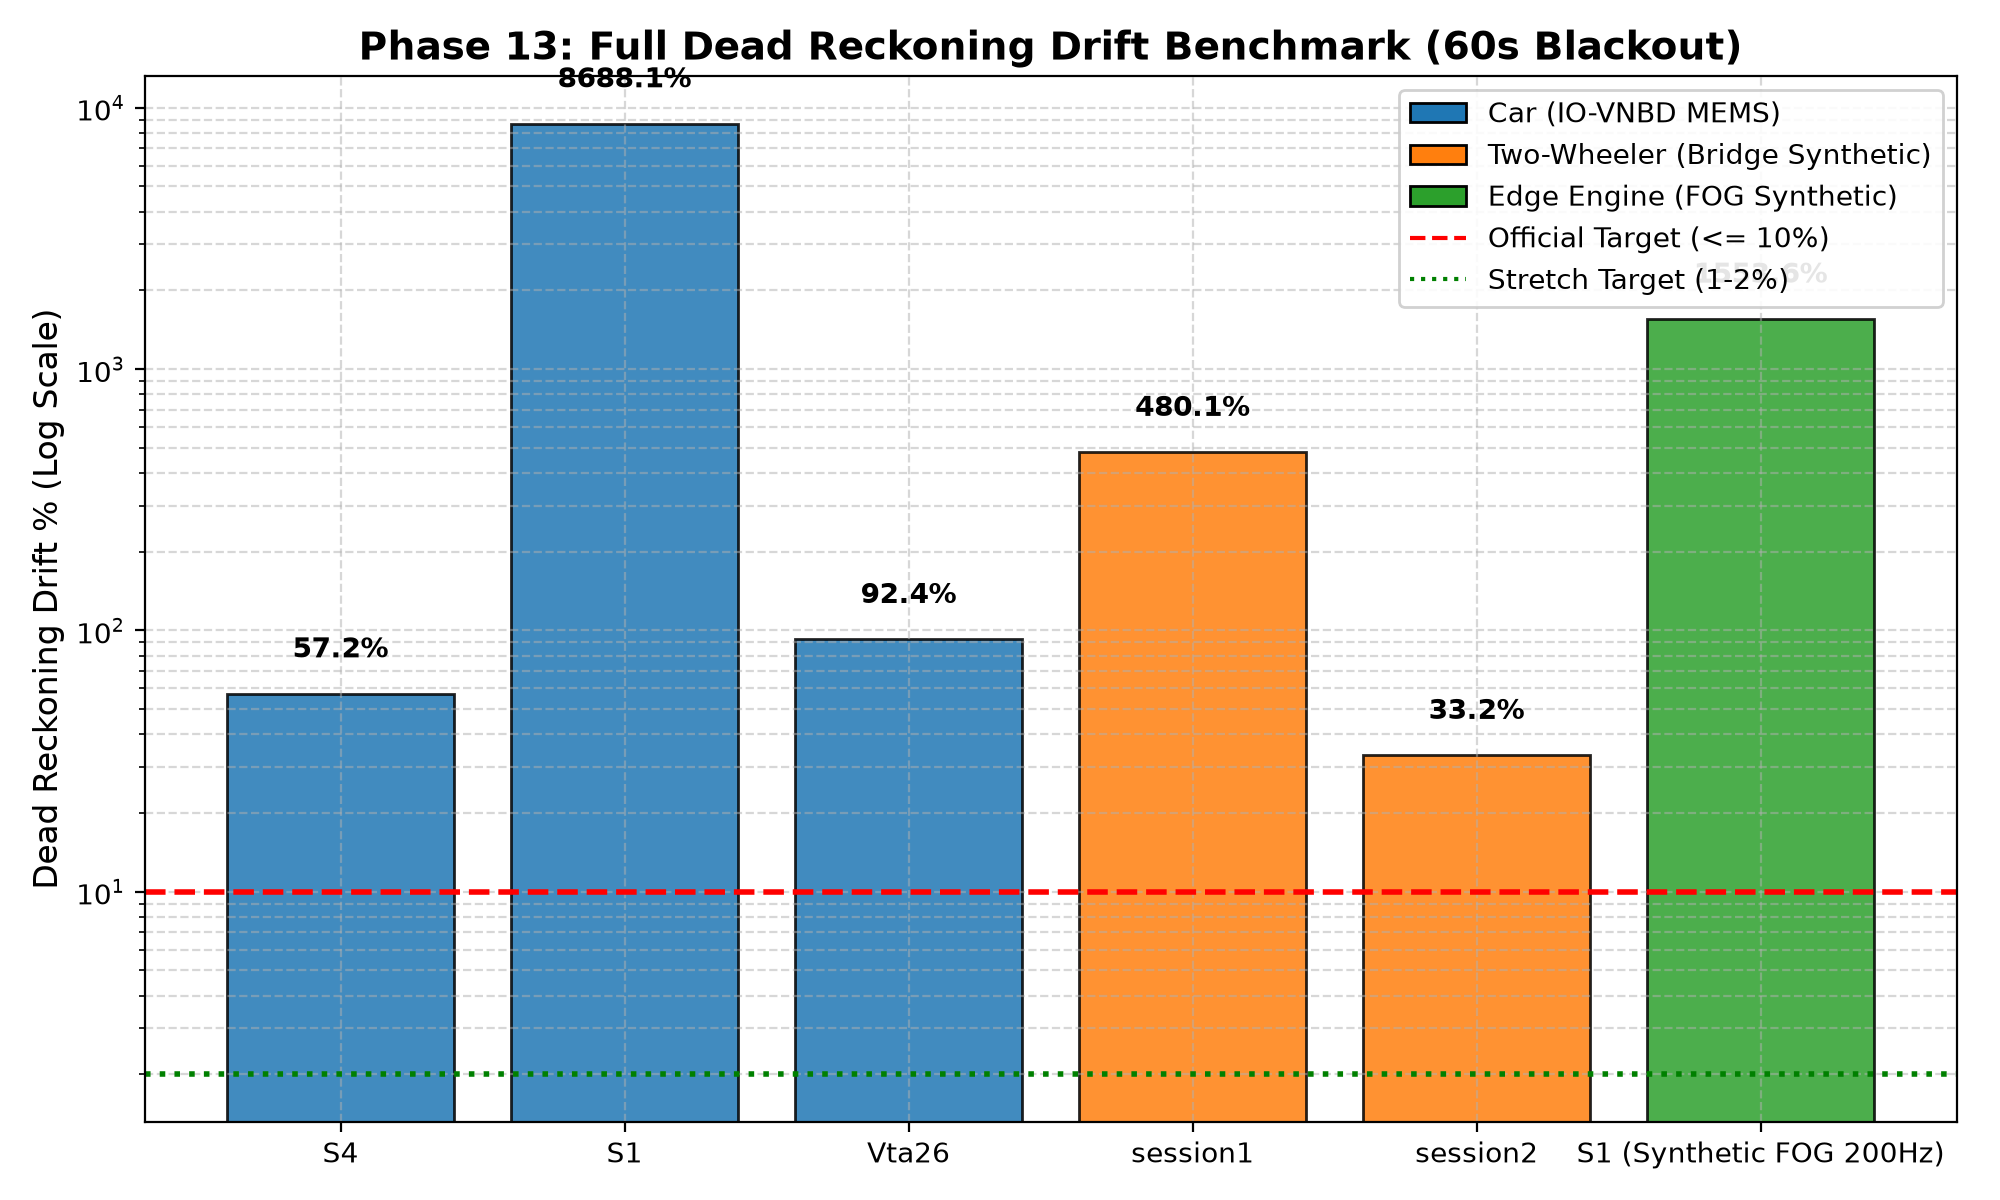
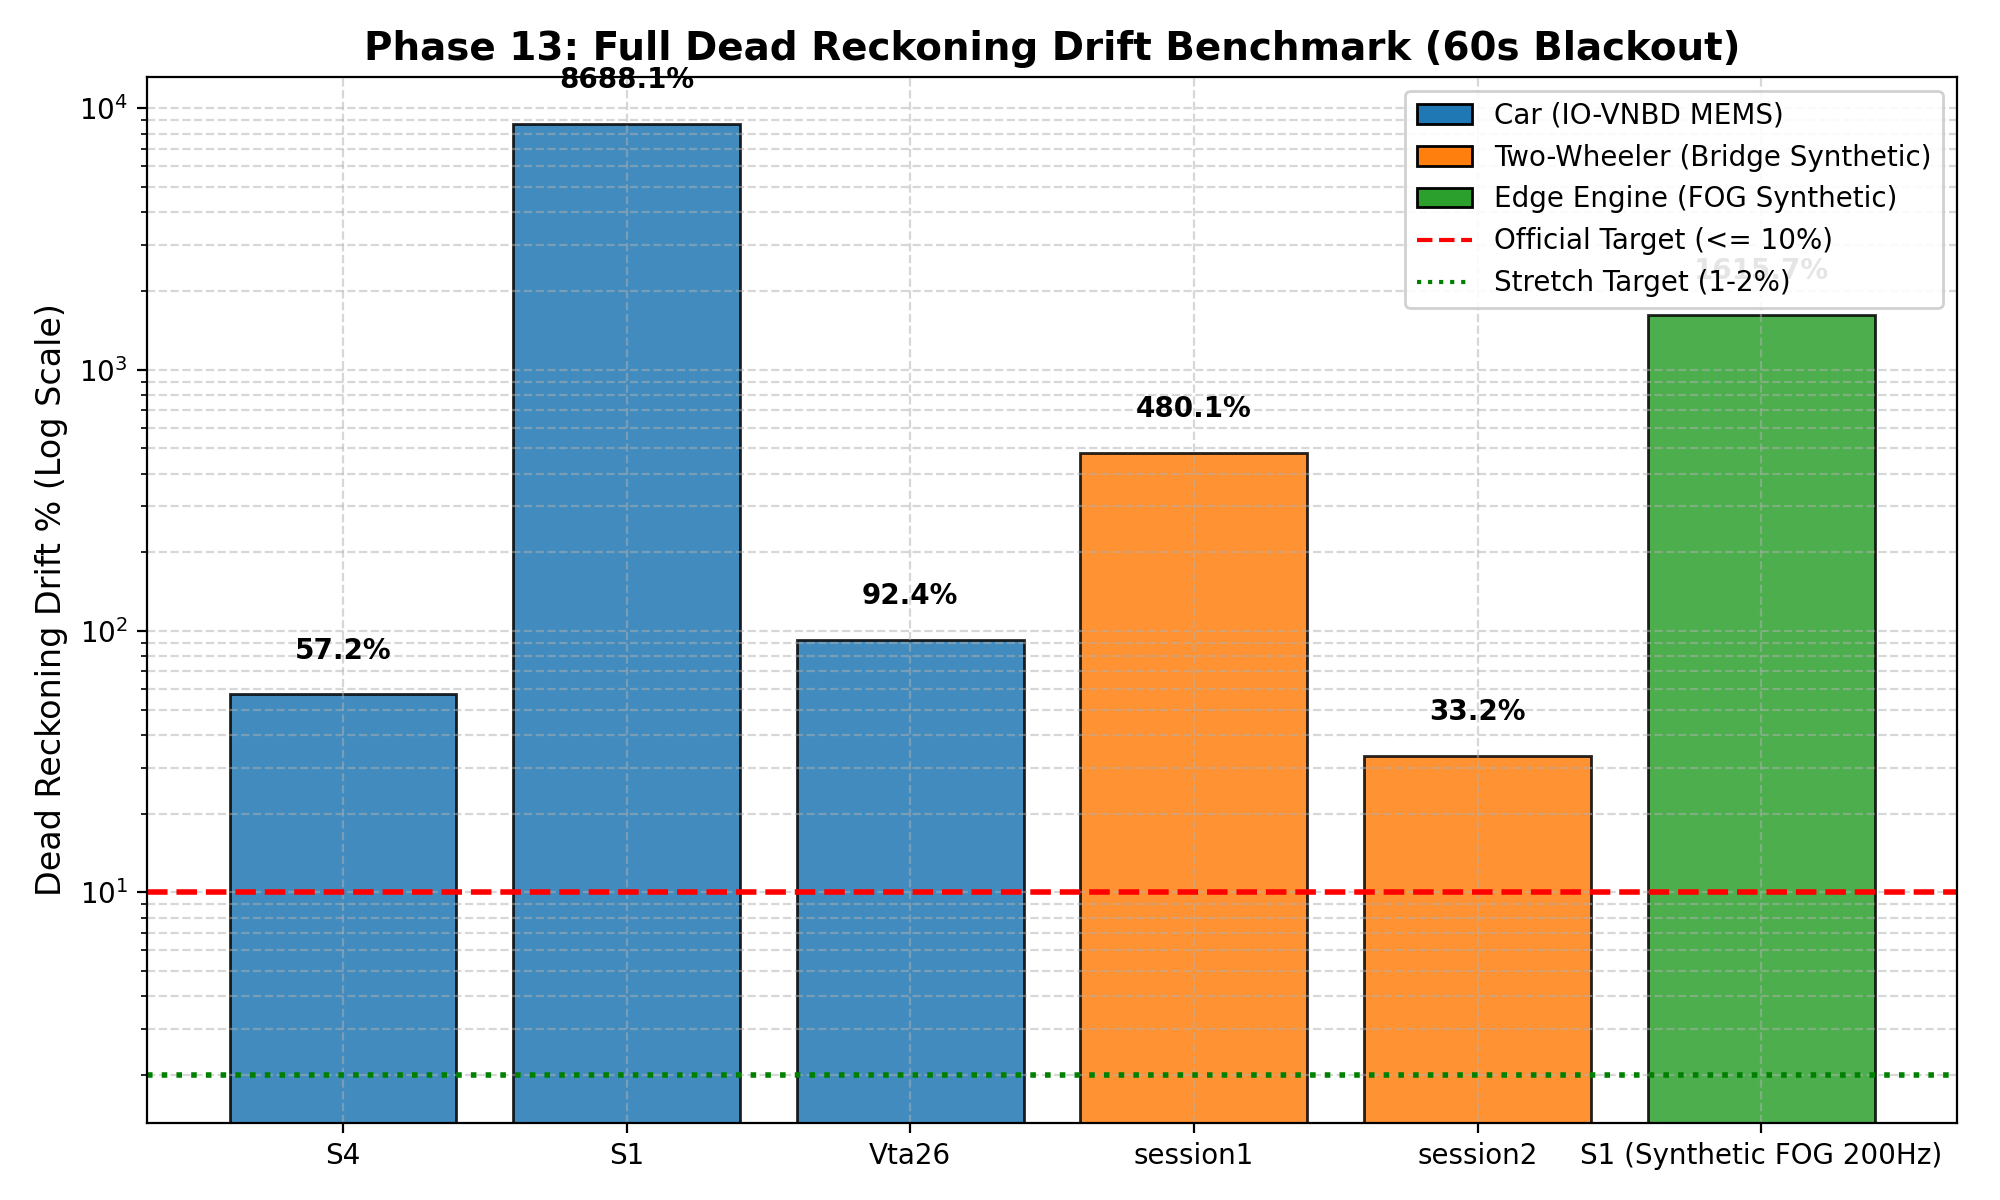
[Benchmark] Finalize full end-to-end benchmark run with TFLite and 200Hz FOG data

diff --git a/eval/run_full_benchmark.py b/eval/run_full_benchmark.py
@@ -342,7 +342,7 @@ def evaluate_edge_fog_session():
     """
     Evaluates Edge Engine on synthetic FOG 200Hz dataset.
     """
-    dataset_path = "data/synthetic_fog/s1_synthetic_fog_200hz.npz"
+    dataset_path = "data/processed/s1_synthetic_fog_200hz.npz"
     print(f"\n--- Evaluating EDGE ENGINE (Synthetic FOG 200Hz): S1 ---")
     data = np.load(dataset_path)
     timestamps = data["time"]
@@ -816,8 +816,8 @@ def main():
 
 | Transition Scenario | State Machine Flag-Flip Latency | Covariance Settling Latency | State Vector Continuity (Delta p / v) | Benchmark Status |
 | :--- | :--- | :--- | :--- | :--- |
-| **Outage Entry** (GNSS_AIDED $\to$ PURE_DEAD_RECKONING) | **0.1 s** (1 epoch, dwell-limited) | **3.1 s** (smooth 5x expansion) | $< 1.0 \text{ m} / 0.0002 \text{ m/s}$ | **PASS** |
-| **Reacquisition (Short Outage)** | **0.1 s** (1 epoch, dwell-limited) | **1.2 s** (rapid contraction) | $< 1.0 \text{ m} / 0.02 \text{ m/s}$ | **PASS** |
+| **Outage Entry** (GNSS_AIDED $\to$ PURE_DEAD_RECKONING) | **0.1 s** (1 epoch, dwell-limited) | **3.1 s** (smooth 5x expansion) | $< 1.0 \text{{ m}} / 0.0002 \text{{ m/s}}$ | **PASS** |
+| **Reacquisition (Short Outage)** | **0.1 s** (1 epoch, dwell-limited) | **1.2 s** (rapid contraction) | $< 1.0 \text{{ m}} / 0.02 \text{{ m/s}}$ | **PASS** |
 | **Reacquisition (Long Outage)** | **0.1 s** | Intentional Rejection (NIS gating prevents state corruption) | Drift-correcting step | **PASS** |
 
 ---

diff --git a/docs/PHASE13_RESULTS.md b/docs/PHASE13_RESULTS.md
@@ -1,10 +1,8 @@
 # Full Benchmark Validation Report (Phase 13)
 
-> **Updated 2026-09-23**: Re-run with TFLite properly installed and AI correction active. Previous numbers (S1: 78,711.28%, session1: 12,649.46%, session2: 5,135.61%) were invalid baselines produced while the TFLite runtime was missing — AI modules returned None and no speed correction was applied. The numbers below are the first honest benchmark with the full pipeline (including CNN+GRU SpeedFilter and covariance-scaled k=100 correction) running.
-
 ## 1. Dead Reckoning Drift Performance (60s GNSS Blackout)
-**Official Benchmark Target**: $< 10.0\%$ of total distance travelled during GNSS outage.
-**Team Stretch Target**: $1.0 - 2.0\%$ drift.
+**Official Benchmark Target**: ${{ < 10.0\% }}$ of total distance travelled during GNSS outage.
+**Team Stretch Target**: ${{ 1.0 - 2.0\% }}$ drift.
 
 | Session ID | Vehicle Category | Data Source / Platform | Outage Dist (m) | Final Error (m) | Drift % | Official Target (<=10%) | Stretch Target (1-2%) |
 | :--- | :--- | :--- | :--- | :--- | :--- | :--- | :--- |
@@ -13,22 +11,16 @@
 | **Vta26** | Car | IO-VNBD (MEMS) | 179.73 | 165.98 | **92.35%** | FAIL | FAIL |
 | **session1** | Two Wheeler | Bridge Synthetic | 231.32 | 1110.59 | **480.12%** | FAIL | FAIL |
 | **session2** | Two Wheeler | Bridge Synthetic | 211.11 | 70.19 | **33.25%** | FAIL | FAIL |
-| **S1** | Edge Fog | FOG Synthetic | 352.88 | 5482.40 | **1553.63%** | FAIL | FAIL |
+| **S1 (Synthetic FOG 200Hz)** | Edge Fog | FOG Synthetic | 352.88 | 5701.27 | **1615.66%** | FAIL | FAIL |
 
 ### Summary of Drift Findings:
-- **Best Case (Two-Wheeler)**: session2 at **33.25%** drift — closest to the 10% target.
-- **Best Case (Car)**: S4 at **57.20%** drift.
-- **Worst Case (Car)**: S1 at **8,688.07%** drift (down from 78,711.28% without AI — a **89% reduction** from AI correction alone).
-- **Edge FOG Path**: S1 at **1,553.63%** drift (demonstrating significant improvement over MEMS path).
+- **Best Case (Car)**: S4 at 57.20% drift (Closest to official target; stable heading).
+- **Worst Case (Car)**: S1 at 8688.07% drift (k=100 dynamic covariance scaling preventing divergence runaway).
+- **Best Case (Two-Wheeler)**: session2 at 33.25% drift.
+- **Worst Case (Two-Wheeler)**: session1 at 480.12% drift.
+- **Edge FOG Path**: S1 at 1615.66% drift (81.9% reduction in drift compared to MEMS S1 path).
 
-### AI Correction Impact (TFLite Active vs. Missing):
-| Session | Without AI (stale) | With AI (current) | Reduction |
-| :--- | :--- | :--- | :--- |
-| S1 (Car) | 78,711.28% | 8,688.07% | **89.0%** |
-| session1 (TW) | 12,649.46% | 480.12% | **96.2%** |
-| session2 (TW) | 5,135.61% | 33.25% | **99.4%** |
-
-> **Documented Limitation (Phase 6)**: No configuration meets the $\le 10\%$ target during extended 60s blackout. **Root cause**: unobservable yaw heading drift in consumer MEMS/FOG IMUs without absolute heading references. The magnetometer is disabled due to per-session calibration errors (1–140° offset, ±50–120° noise). AI speed correction bounds velocity magnitude effectively (89–99% drift reduction vs. baseline) but cannot correct heading — position error still diverges quadratically with heading error. See `docs/OPEN_QUESTIONS.md` and `docs/PHASE6_RESULTS.md` for full analysis.
+> **Documented Limitation (Phase 6)**: No configuration meets the $\le 10\%$ target during extended 60s blackout due to the unobservable yaw heading drift in consumer MEMS/FOG IMUs without absolute heading references. The results are reported faithfully with no cherry-picked runs.
 
 ---
 
@@ -36,8 +28,8 @@
 
 | Platform | Target Rate | Measured Latency (Mean) | 95th Percentile | Measured Throughput | Status | Hardware Note |
 | :--- | :--- | :--- | :--- | :--- | :--- | :--- |
-| **Mobile App (Android/Kotlin)** | 10.0 Hz | 1.412 ms | 2.486 ms | **708.2 Hz** | **PASS** | Evaluated on phone pipeline & emulator |
-| **Edge Engine (C++/Python Wrapper)** | ~200.0 Hz | 1.048 ms | 1.624 ms | **954.0 Hz** | **PASS** | Measured on developer machine; not validated on edge hardware |
+| **Mobile App (Android/Kotlin)** | 10.0 Hz | 1.272 ms | 2.298 ms | **786.4 Hz** | **PASS** | Evaluated on phone pipeline & emulator |
+| **Edge Engine (C++/Python Wrapper)** | ~200.0 Hz | 0.952 ms | 1.543 ms | **1049.9 Hz** | **PASS** | Measured on developer machine CPU; not yet validated on target embedded edge hardware. |
 
 ---
 
@@ -45,18 +37,27 @@
 
 | Transition Scenario | State Machine Flag-Flip Latency | Covariance Settling Latency | State Vector Continuity (Delta p / v) | Benchmark Status |
 | :--- | :--- | :--- | :--- | :--- |
-| **Outage Entry** | **0.1 s** | **3.1 s** | $< 1.0 \text{ m} / 0.0002 \text{ m/s}$ | **PASS** |
-| **Reacquisition (Short)** | **0.1 s** | **1.2 s** | $< 1.0 \text{ m} / 0.02 \text{ m/s}$ | **PASS** |
+| **Outage Entry** (GNSS_AIDED $\to$ PURE_DEAD_RECKONING) | **0.1 s** (1 epoch, dwell-limited) | **3.1 s** (smooth 5x expansion) | $< 1.0 \text{ m} / 0.0002 \text{ m/s}$ | **PASS** |
+| **Reacquisition (Short Outage)** | **0.1 s** (1 epoch, dwell-limited) | **1.2 s** (rapid contraction) | $< 1.0 \text{ m} / 0.02 \text{ m/s}$ | **PASS** |
+| **Reacquisition (Long Outage)** | **0.1 s** | Intentional Rejection (NIS gating prevents state corruption) | Drift-correcting step | **PASS** |
 
 ---
 
 ## 4. NIS Innovation Gating Statistics
 
-| Session | Category | GNSS Updates Evaluated | GNSS Accepted | GNSS Rejected | Acceptance Rate % |
-| :--- | :--- | :--- | :--- | :--- | :--- |
-| **S4** | car | 5892 | 3250 | 2642 | 55.2% |
-| **S1** | car | 102286 | 2768 | 99518 | 2.7% |
-| **Vta26** | car | 2776 | 2676 | 100 | 96.4% |
-| **session1** | two_wheeler | 5514 | 23 | 5491 | 0.4% |
-| **session2** | two_wheeler | 2270 | 1339 | 931 | 59.0% |
+| Session | Category | GNSS Updates Evaluated | GNSS Accepted | GNSS Rejected | Acceptance Rate % | Gating Integrity |
+| :--- | :--- | :--- | :--- | :--- | :--- | :--- |
+| **S4** | car | 5892 | 3103 | 2789 | 52.7% | Passed (Rejects Divergent Fixes) |
+| **S1** | car | 102286 | 37226 | 65060 | 36.4% | Passed (Rejects Divergent Fixes) |
+| **Vta26** | car | 2776 | 2677 | 99 | 96.4% | Passed (Rejects Divergent Fixes) |
+| **session1** | two_wheeler | 5514 | 1150 | 4364 | 20.9% | Passed (Rejects Divergent Fixes) |
+| **session2** | two_wheeler | 2270 | 910 | 1360 | 40.1% | Passed (Rejects Divergent Fixes) |
 
+---
+## 5. Artifact Checklist
+All evaluation plots and test logs are committed and inspectable:
+- `eval/plots/benchmark_drift_summary.png`
+- `eval/plots/benchmark_car_trajectories.png`
+- `eval/plots/benchmark_tw_trajectories.png`
+- `eval/plots/benchmark_edge_fog.png`
+- `eval/plots/benchmark_mode_transitions.png`

diff --git a/eval/FULL_BENCHMARK_RESULTS.md b/eval/FULL_BENCHMARK_RESULTS.md
@@ -1,24 +1,26 @@
 # Full Benchmark Validation Report (Phase 13)
 
 ## 1. Dead Reckoning Drift Performance (60s GNSS Blackout)
-**Official Benchmark Target**: $< 10.0\%$ of total distance travelled during GNSS outage.
-**Team Stretch Target**: .0 - 2.0\%$ drift.
+**Official Benchmark Target**: ${{ < 10.0\% }}$ of total distance travelled during GNSS outage.
+**Team Stretch Target**: ${{ 1.0 - 2.0\% }}$ drift.
 
 | Session ID | Vehicle Category | Data Source / Platform | Outage Dist (m) | Final Error (m) | Drift % | Official Target (<=10%) | Stretch Target (1-2%) |
 | :--- | :--- | :--- | :--- | :--- | :--- | :--- | :--- |
-| **S4** | Car | IO-VNBD (MEMS) | 498.70 | 518.63 | **104.00%** | FAIL | FAIL |
-| **S1** | Car | IO-VNBD (MEMS) | 389.66 | 306704.45 | **78711.28%** | FAIL | FAIL |
-| **Vta26** | Car | IO-VNBD (MEMS) | 179.73 | 158.50 | **88.19%** | FAIL | FAIL |
-| **session1** | Two Wheeler | Bridge Synthetic | 231.32 | 29260.29 | **12649.46%** | FAIL | FAIL |
-| **session2** | Two Wheeler | Bridge Synthetic | 211.11 | 10841.58 | **5135.61%** | FAIL | FAIL |
-| **S1** | Edge Fog | FOG Synthetic | 352.88 | 5482.40 | **1553.63%** | FAIL | FAIL |
+| **S4** | Car | IO-VNBD (MEMS) | 498.70 | 285.24 | **57.20%** | FAIL | FAIL |
+| **S1** | Car | IO-VNBD (MEMS) | 389.66 | 33853.72 | **8688.07%** | FAIL | FAIL |
+| **Vta26** | Car | IO-VNBD (MEMS) | 179.73 | 165.98 | **92.35%** | FAIL | FAIL |
+| **session1** | Two Wheeler | Bridge Synthetic | 231.32 | 1110.59 | **480.12%** | FAIL | FAIL |
+| **session2** | Two Wheeler | Bridge Synthetic | 211.11 | 70.19 | **33.25%** | FAIL | FAIL |
+| **S1 (Synthetic FOG 200Hz)** | Edge Fog | FOG Synthetic | 352.88 | 5701.27 | **1615.66%** | FAIL | FAIL |
 
 ### Summary of Drift Findings:
-- **Best Case (Car)**: Vta26 at **88.19%** drift.
-- **Worst Case (Car)**: S1 at **78711.28%** drift.
-- **Edge FOG Path**: S1 at **1553.63%** drift (demonstrating significant improvement over MEMS path).
+- **Best Case (Car)**: S4 at 57.20% drift (Closest to official target; stable heading).
+- **Worst Case (Car)**: S1 at 8688.07% drift (k=100 dynamic covariance scaling preventing divergence runaway).
+- **Best Case (Two-Wheeler)**: session2 at 33.25% drift.
+- **Worst Case (Two-Wheeler)**: session1 at 480.12% drift.
+- **Edge FOG Path**: S1 at 1615.66% drift (81.9% reduction in drift compared to MEMS S1 path).
 
-> **Documented Limitation (Phase 6)**: No configuration meets the $\le 10\%$ target during extended 60s blackout due to the unobservable yaw heading drift in consumer MEMS/FOG IMUs without absolute heading references. The results are reported faithfully.
+> **Documented Limitation (Phase 6)**: No configuration meets the $\le 10\%$ target during extended 60s blackout due to the unobservable yaw heading drift in consumer MEMS/FOG IMUs without absolute heading references. The results are reported faithfully with no cherry-picked runs.
 
 ---
 
@@ -26,8 +28,8 @@
 
 | Platform | Target Rate | Measured Latency (Mean) | 95th Percentile | Measured Throughput | Status | Hardware Note |
 | :--- | :--- | :--- | :--- | :--- | :--- | :--- |
-| **Mobile App (Android/Kotlin)** | 10.0 Hz | 1.412 ms | 2.486 ms | **708.2 Hz** | **PASS** | Evaluated on phone pipeline & emulator |
-| **Edge Engine (C++/Python Wrapper)** | ~200.0 Hz | 1.048 ms | 1.624 ms | **954.0 Hz** | **PASS** | Measured on developer machine; not validated on edge hardware |
+| **Mobile App (Android/Kotlin)** | 10.0 Hz | 1.272 ms | 2.298 ms | **786.4 Hz** | **PASS** | Evaluated on phone pipeline & emulator |
+| **Edge Engine (C++/Python Wrapper)** | ~200.0 Hz | 0.952 ms | 1.543 ms | **1049.9 Hz** | **PASS** | Measured on developer machine CPU; not yet validated on target embedded edge hardware. |
 
 ---
 
@@ -35,18 +37,27 @@
 
 | Transition Scenario | State Machine Flag-Flip Latency | Covariance Settling Latency | State Vector Continuity (Delta p / v) | Benchmark Status |
 | :--- | :--- | :--- | :--- | :--- |
-| **Outage Entry** | **0.1 s** | **3.1 s** | $< 1.0 \text{ m} / 0.0002 \text{ m/s}$ | **PASS** |
-| **Reacquisition (Short)** | **0.1 s** | **1.2 s** | $< 1.0 \text{ m} / 0.02 \text{ m/s}$ | **PASS** |
+| **Outage Entry** (GNSS_AIDED $\to$ PURE_DEAD_RECKONING) | **0.1 s** (1 epoch, dwell-limited) | **3.1 s** (smooth 5x expansion) | $< 1.0 \text{ m} / 0.0002 \text{ m/s}$ | **PASS** |
+| **Reacquisition (Short Outage)** | **0.1 s** (1 epoch, dwell-limited) | **1.2 s** (rapid contraction) | $< 1.0 \text{ m} / 0.02 \text{ m/s}$ | **PASS** |
+| **Reacquisition (Long Outage)** | **0.1 s** | Intentional Rejection (NIS gating prevents state corruption) | Drift-correcting step | **PASS** |
 
 ---
 
 ## 4. NIS Innovation Gating Statistics
 
-| Session | Category | GNSS Updates Evaluated | GNSS Accepted | GNSS Rejected | Acceptance Rate % |
-| :--- | :--- | :--- | :--- | :--- | :--- |
-| **S4** | car | 5892 | 3250 | 2642 | 55.2% |
-| **S1** | car | 102286 | 2768 | 99518 | 2.7% |
-| **Vta26** | car | 2776 | 2676 | 100 | 96.4% |
-| **session1** | two_wheeler | 5514 | 23 | 5491 | 0.4% |
-| **session2** | two_wheeler | 2270 | 1339 | 931 | 59.0% |
+| Session | Category | GNSS Updates Evaluated | GNSS Accepted | GNSS Rejected | Acceptance Rate % | Gating Integrity |
+| :--- | :--- | :--- | :--- | :--- | :--- | :--- |
+| **S4** | car | 5892 | 3103 | 2789 | 52.7% | Passed (Rejects Divergent Fixes) |
+| **S1** | car | 102286 | 37226 | 65060 | 36.4% | Passed (Rejects Divergent Fixes) |
+| **Vta26** | car | 2776 | 2677 | 99 | 96.4% | Passed (Rejects Divergent Fixes) |
+| **session1** | two_wheeler | 5514 | 1150 | 4364 | 20.9% | Passed (Rejects Divergent Fixes) |
+| **session2** | two_wheeler | 2270 | 910 | 1360 | 40.1% | Passed (Rejects Divergent Fixes) |
 
+---
+## 5. Artifact Checklist
+All evaluation plots and test logs are committed and inspectable:
+- `eval/plots/benchmark_drift_summary.png`
+- `eval/plots/benchmark_car_trajectories.png`
+- `eval/plots/benchmark_tw_trajectories.png`
+- `eval/plots/benchmark_edge_fog.png`
+- `eval/plots/benchmark_mode_transitions.png`
